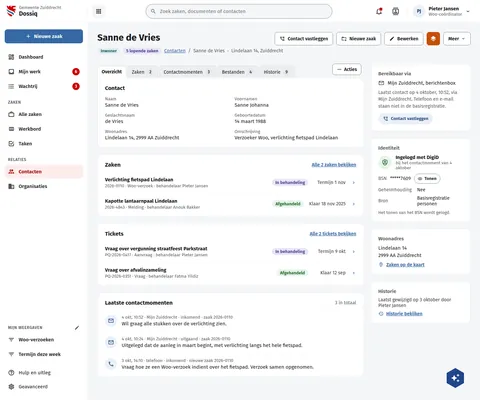
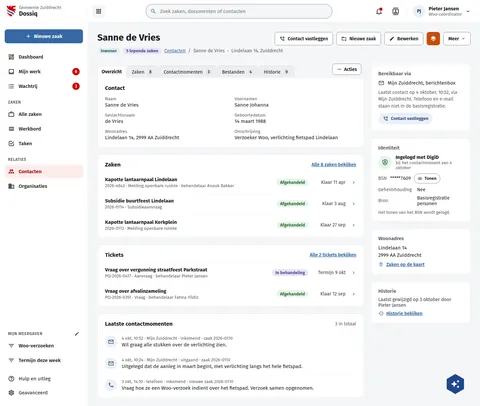
fix(screens): DqContact counts all eight of Sanne's cases
The contact page lists every case of the person, her Mijn Zuiddrecht
portal cases included (Ruben, 30 Oct): the Zaken tab reads 8, the card
links "Alle 8 zaken bekijken" and shows the three rows live shows.

Assisted-by: ClaudeCode:claude-opus-5-5

diff --git a/preview/screens/boards/DqContact.html b/preview/screens/boards/DqContact.html
@@ -165,7 +165,7 @@ a{color:var(--sc-primary, #3669a5)}a:hover{color:var(--sc-primary-deep, #234a78)
                 
                   <button type="button" role="tab" aria-selected="true" style="display: inline-flex; align-items: center; gap: 8px; box-sizing: border-box; min-height: 34px; padding: 8px 12px; margin-bottom: -1px; border: 1px solid #d6d9de; border-bottom: none; border-radius: 8px 8px 0 0; font: 400 14px var(--sc-font, 'Fira Sans'), sans-serif; color: var(--sc-work-ink, #1b1c1d); background: #eceef1; cursor: pointer; white-space: nowrap; background: #ffffff; border-bottom: 1px solid #ffffff; font-weight: 700;">Overzicht</button>
                 
-                  <button type="button" role="tab" aria-selected="false" style="display: inline-flex; align-items: center; gap: 8px; box-sizing: border-box; min-height: 34px; padding: 8px 12px; margin-bottom: -1px; border: 1px solid #d6d9de; border-bottom: none; border-radius: 8px 8px 0 0; font: 400 14px var(--sc-font, 'Fira Sans'), sans-serif; color: var(--sc-work-ink, #1b1c1d); background: #eceef1; cursor: pointer; white-space: nowrap;">Zaken<span style="min-width: 20px; height: 20px; padding: 0 6px; box-sizing: border-box; border-radius: 10px; background: var(--sc-work-line, #e4e6ea); color: var(--sc-work-text, #3d4047); font-size: 12px; font-weight: 600; display: inline-flex; align-items: center; justify-content: center">2</span></button>
+                  <button type="button" role="tab" aria-selected="false" style="display: inline-flex; align-items: center; gap: 8px; box-sizing: border-box; min-height: 34px; padding: 8px 12px; margin-bottom: -1px; border: 1px solid #d6d9de; border-bottom: none; border-radius: 8px 8px 0 0; font: 400 14px var(--sc-font, 'Fira Sans'), sans-serif; color: var(--sc-work-ink, #1b1c1d); background: #eceef1; cursor: pointer; white-space: nowrap;">Zaken<span style="min-width: 20px; height: 20px; padding: 0 6px; box-sizing: border-box; border-radius: 10px; background: var(--sc-work-line, #e4e6ea); color: var(--sc-work-text, #3d4047); font-size: 12px; font-weight: 600; display: inline-flex; align-items: center; justify-content: center">8</span></button>
                 
                   <button type="button" role="tab" aria-selected="false" style="display: inline-flex; align-items: center; gap: 8px; box-sizing: border-box; min-height: 34px; padding: 8px 12px; margin-bottom: -1px; border: 1px solid #d6d9de; border-bottom: none; border-radius: 8px 8px 0 0; font: 400 14px var(--sc-font, 'Fira Sans'), sans-serif; color: var(--sc-work-ink, #1b1c1d); background: #eceef1; cursor: pointer; white-space: nowrap;">Contactmomenten<span style="min-width: 20px; height: 20px; padding: 0 6px; box-sizing: border-box; border-radius: 10px; background: var(--sc-work-line, #e4e6ea); color: var(--sc-work-text, #3d4047); font-size: 12px; font-weight: 600; display: inline-flex; align-items: center; justify-content: center">3</span></button>
                 
@@ -195,19 +195,26 @@ a{color:var(--sc-primary, #3669a5)}a:hover{color:var(--sc-primary-deep, #234a78)
               </dl>
             </section>
             <section style="background: #ffffff; border: 1px solid var(--sc-work-line, #e4e6ea); border-radius: 12px; padding: 20px 22px 8px; display: flex; flex-direction: column; gap: 4px">
-              <div style="display: flex; justify-content: space-between; align-items: center; gap: 12px; margin-bottom: 8px"><h2 style="margin: 0; font-size: 17px; font-weight: 700">Zaken</h2><a href="DqZaken.html" style="font-size: 14px; font-weight: 600">Alle 2 zaken bekijken</a></div>
+              <div style="display: flex; justify-content: space-between; align-items: center; gap: 12px; margin-bottom: 8px"><h2 style="margin: 0; font-size: 17px; font-weight: 700">Zaken</h2><a href="DqZaken.html" style="font-size: 14px; font-weight: 600">Alle 8 zaken bekijken</a></div>
               
-                <a href="DqZaak.html" style="display: flex; flex-wrap: wrap; align-items: center; gap: 8px 16px; padding: 12px 0; border-top: 1px solid var(--sc-work-soft, #eef0f3); color: var(--sc-work-ink, #1b1c1d); text-decoration: none">
-                  <span style="flex: 1 1 260px; display: flex; flex-direction: column; gap: 2px"><strong style="font-size: 15px">Verlichting fietspad Lindelaan</strong><span style="font-size: 13px; color: var(--sc-work-muted, #5e6168)">2026-0110 · Woo-verzoek · behandelaar Pieter Jansen</span></span>
-                  <span style="display: inline-block; padding: 3px 10px; border-radius: 12px; font-size: 13px; font-weight: 600; white-space: nowrap; background: #e8e6f6; color: #4a3f8f">In behandeling</span>
-                  <span style="min-width: 96px; text-align: right; font-size: 14px; color: var(--sc-work-text, #3d4047)">Termijn 1 nov</span>
+                <a href="#" style="display: flex; flex-wrap: wrap; align-items: center; gap: 8px 16px; padding: 12px 0; border-top: 1px solid var(--sc-work-soft, #eef0f3); color: var(--sc-work-ink, #1b1c1d); text-decoration: none">
+                  <span style="flex: 1 1 260px; display: flex; flex-direction: column; gap: 2px"><strong style="font-size: 15px">Kapotte lantaarnpaal Lindelaan</strong><span style="font-size: 13px; color: var(--sc-work-muted, #5e6168)">2026-4843 · Melding openbare ruimte · behandelaar Anouk Bakker</span></span>
+                  <span style="display: inline-block; padding: 3px 10px; border-radius: 12px; font-size: 13px; font-weight: 600; white-space: nowrap; background: #e7f3ea; color: #1e6b2a">Afgehandeld</span>
+                  <span style="min-width: 96px; text-align: right; font-size: 14px; color: var(--sc-work-text, #3d4047)">Klaar 11 apr</span>
                   <svg width="16" height="16" viewbox="0 0 24 24" fill="#3669a5" style="flex: none;fill:var(--sc-primary, #3669a5)"><path d="M8.59,16.58L13.17,12L8.59,7.41L10,6L16,12L10,18L8.59,16.58Z"></path></svg>
                 </a>
               
                 <a href="#" style="display: flex; flex-wrap: wrap; align-items: center; gap: 8px 16px; padding: 12px 0; border-top: 1px solid var(--sc-work-soft, #eef0f3); color: var(--sc-work-ink, #1b1c1d); text-decoration: none">
-                  <span style="flex: 1 1 260px; display: flex; flex-direction: column; gap: 2px"><strong style="font-size: 15px">Kapotte lantaarnpaal Lindelaan</strong><span style="font-size: 13px; color: var(--sc-work-muted, #5e6168)">2026-4843 · Melding · behandelaar Anouk Bakker</span></span>
+                  <span style="flex: 1 1 260px; display: flex; flex-direction: column; gap: 2px"><strong style="font-size: 15px">Subsidie buurtfeest Lindelaan</strong><span style="font-size: 13px; color: var(--sc-work-muted, #5e6168)">2026-0114 · Subsidieaanvraag</span></span>
                   <span style="display: inline-block; padding: 3px 10px; border-radius: 12px; font-size: 13px; font-weight: 600; white-space: nowrap; background: #e7f3ea; color: #1e6b2a">Afgehandeld</span>
-                  <span style="min-width: 96px; text-align: right; font-size: 14px; color: var(--sc-work-text, #3d4047)">Klaar 18 nov 2025</span>
+                  <span style="min-width: 96px; text-align: right; font-size: 14px; color: var(--sc-work-text, #3d4047)">Klaar 3 aug</span>
+                  <svg width="16" height="16" viewbox="0 0 24 24" fill="#3669a5" style="flex: none;fill:var(--sc-primary, #3669a5)"><path d="M8.59,16.58L13.17,12L8.59,7.41L10,6L16,12L10,18L8.59,16.58Z"></path></svg>
+                </a>
+              
+                <a href="#" style="display: flex; flex-wrap: wrap; align-items: center; gap: 8px 16px; padding: 12px 0; border-top: 1px solid var(--sc-work-soft, #eef0f3); color: var(--sc-work-ink, #1b1c1d); text-decoration: none">
+                  <span style="flex: 1 1 260px; display: flex; flex-direction: column; gap: 2px"><strong style="font-size: 15px">Kapotte lantaarnpaal Kerkplein</strong><span style="font-size: 13px; color: var(--sc-work-muted, #5e6168)">2026-0113 · Melding openbare ruimte</span></span>
+                  <span style="display: inline-block; padding: 3px 10px; border-radius: 12px; font-size: 13px; font-weight: 600; white-space: nowrap; background: #e7f3ea; color: #1e6b2a">Afgehandeld</span>
+                  <span style="min-width: 96px; text-align: right; font-size: 14px; color: var(--sc-work-text, #3d4047)">Klaar 27 sep</span>
                   <svg width="16" height="16" viewbox="0 0 24 24" fill="#3669a5" style="flex: none;fill:var(--sc-primary, #3669a5)"><path d="M8.59,16.58L13.17,12L8.59,7.41L10,6L16,12L10,18L8.59,16.58Z"></path></svg>
                 </a>
               

diff --git a/screens-src/zuiddrecht/DqContact.dc.html b/screens-src/zuiddrecht/DqContact.dc.html
@@ -59,8 +59,8 @@ a{color:#3669a5}a:hover{color:#234a78}
               </dl>
             </section>
             <section style="background: #ffffff; border: 1px solid #e4e6ea; border-radius: 12px; padding: 20px 22px 8px; display: flex; flex-direction: column; gap: 4px">
-              <div style="display: flex; justify-content: space-between; align-items: center; gap: 12px; margin-bottom: 8px"><h2 style="margin: 0; font-size: 17px; font-weight: 700">Zaken</h2><a href="DqZaken.dc.html" style="font-size: 14px; font-weight: 600">Alle 2 zaken bekijken</a></div>
-              <sc-for list="{{ cases }}" as="c" hint-placeholder-count="2">
+              <div style="display: flex; justify-content: space-between; align-items: center; gap: 12px; margin-bottom: 8px"><h2 style="margin: 0; font-size: 17px; font-weight: 700">Zaken</h2><a href="DqZaken.dc.html" style="font-size: 14px; font-weight: 600">Alle 8 zaken bekijken</a></div>
+              <sc-for list="{{ cases }}" as="c" hint-placeholder-count="3">
                 <a href="{{ c.href }}" style="display: flex; flex-wrap: wrap; align-items: center; gap: 8px 16px; padding: 12px 0; border-top: 1px solid #eef0f3; color: #1b1c1d; text-decoration: none">
                   <span style="flex: 1 1 260px; display: flex; flex-direction: column; gap: 2px"><strong style="font-size: 15px">{{ c.title }}</strong><span style="font-size: 13px; color: #5e6168">{{ c.meta }}</span></span>
                   <span style="{{ c.statusStyle }}">{{ c.status }}</span>
@@ -131,15 +131,16 @@ class Component extends DCLogic {
     const withCounts = (arr) => arr.map((t) => { const m = /^(.*?)\s+(\d[\d.,]*)(\s+.*)?$/.exec(t.label || ''); return m ? Object.assign({}, t, { label: m[1] + (m[3] || ''), count: m[2], hasCount: true }) : Object.assign({}, t, { hasCount: false }); });
     const tabBase = "display: inline-flex; align-items: center; gap: 8px; box-sizing: border-box; min-height: 34px; padding: 8px 12px; margin-bottom: -1px; border: 1px solid #d6d9de; border-bottom: none; border-radius: 8px 8px 0 0; font: 400 14px 'Fira Sans', sans-serif; color: #1b1c1d; background: #eceef1; cursor: pointer; white-space: nowrap;";
     const tab = (on) => on ? tabBase + " background: #ffffff; border-bottom: 1px solid #ffffff; font-weight: 700;" : tabBase;
-    const tabs = [['Overzicht', true], ['Zaken 2', false], ['Contactmomenten 3', false], ['Bestanden 4', false], ['Historie 9', false]].map(([label, on]) => ({ label, sel: on ? 'true' : 'false', style: tab(on) }));
+    const tabs = [['Overzicht', true], ['Zaken 8', false], ['Contactmomenten 3', false], ['Bestanden 4', false], ['Historie 9', false]].map(([label, on]) => ({ label, sel: on ? 'true' : 'false', style: tab(on) }));
     const facts = [
       ['Naam', 'Sanne de Vries'], ['Voornamen', 'Sanne Johanna'], ['Geslachtsnaam', 'de Vries'],
       ['Geboortedatum', '14 maart 1988'], ['Woonadres', 'Lindelaan 14, 2999 AA Zuiddrecht'], ['Omschrijving', 'Verzoeker Woo, verlichting fietspad Lindelaan']
     ].map(([label, value]) => ({ label, value }));
     const pill = (bg, fg) => 'display: inline-block; padding: 3px 10px; border-radius: 12px; font-size: 13px; font-weight: 600; white-space: nowrap; background: ' + bg + '; color: ' + fg;
     const cases = [
-      ['Verlichting fietspad Lindelaan', '2026-0110 · Woo-verzoek · behandelaar Pieter Jansen', 'In behandeling', pill('#e8e6f6', '#4a3f8f'), 'Termijn 1 nov', 'DqZaak.dc.html'],
-      ['Kapotte lantaarnpaal Lindelaan', '2026-4843 · Melding · behandelaar Anouk Bakker', 'Afgehandeld', pill('#e7f3ea', '#1e6b2a'), 'Klaar 18 nov 2025', '#']
+      ['Kapotte lantaarnpaal Lindelaan', '2026-4843 · Melding openbare ruimte · behandelaar Anouk Bakker', 'Afgehandeld', pill('#e7f3ea', '#1e6b2a'), 'Klaar 11 apr', '#'],
+      ['Subsidie buurtfeest Lindelaan', '2026-0114 · Subsidieaanvraag', 'Afgehandeld', pill('#e7f3ea', '#1e6b2a'), 'Klaar 3 aug', '#'],
+      ['Kapotte lantaarnpaal Kerkplein', '2026-0113 · Melding openbare ruimte', 'Afgehandeld', pill('#e7f3ea', '#1e6b2a'), 'Klaar 27 sep', '#']
     ].map(([title, meta, status, statusStyle, due, href]) => ({ title, meta, status, statusStyle, due, href }));
     const moments = [
       ['M22 6C22 4.9 21.1 4 20 4H4C2.9 4 2 4.9 2 6V18C2 19.1 2.9 20 4 20H20C21.1 20 22 19.1 22 18V6M20 6L12 11L4 6H20M20 18H4V8L12 13L20 8V18Z', '4 okt, 10:52 · Mijn Zuiddrecht · inkomend · zaak 2026-0110', 'Wil graag alle stukken over de verlichting zien.'],
